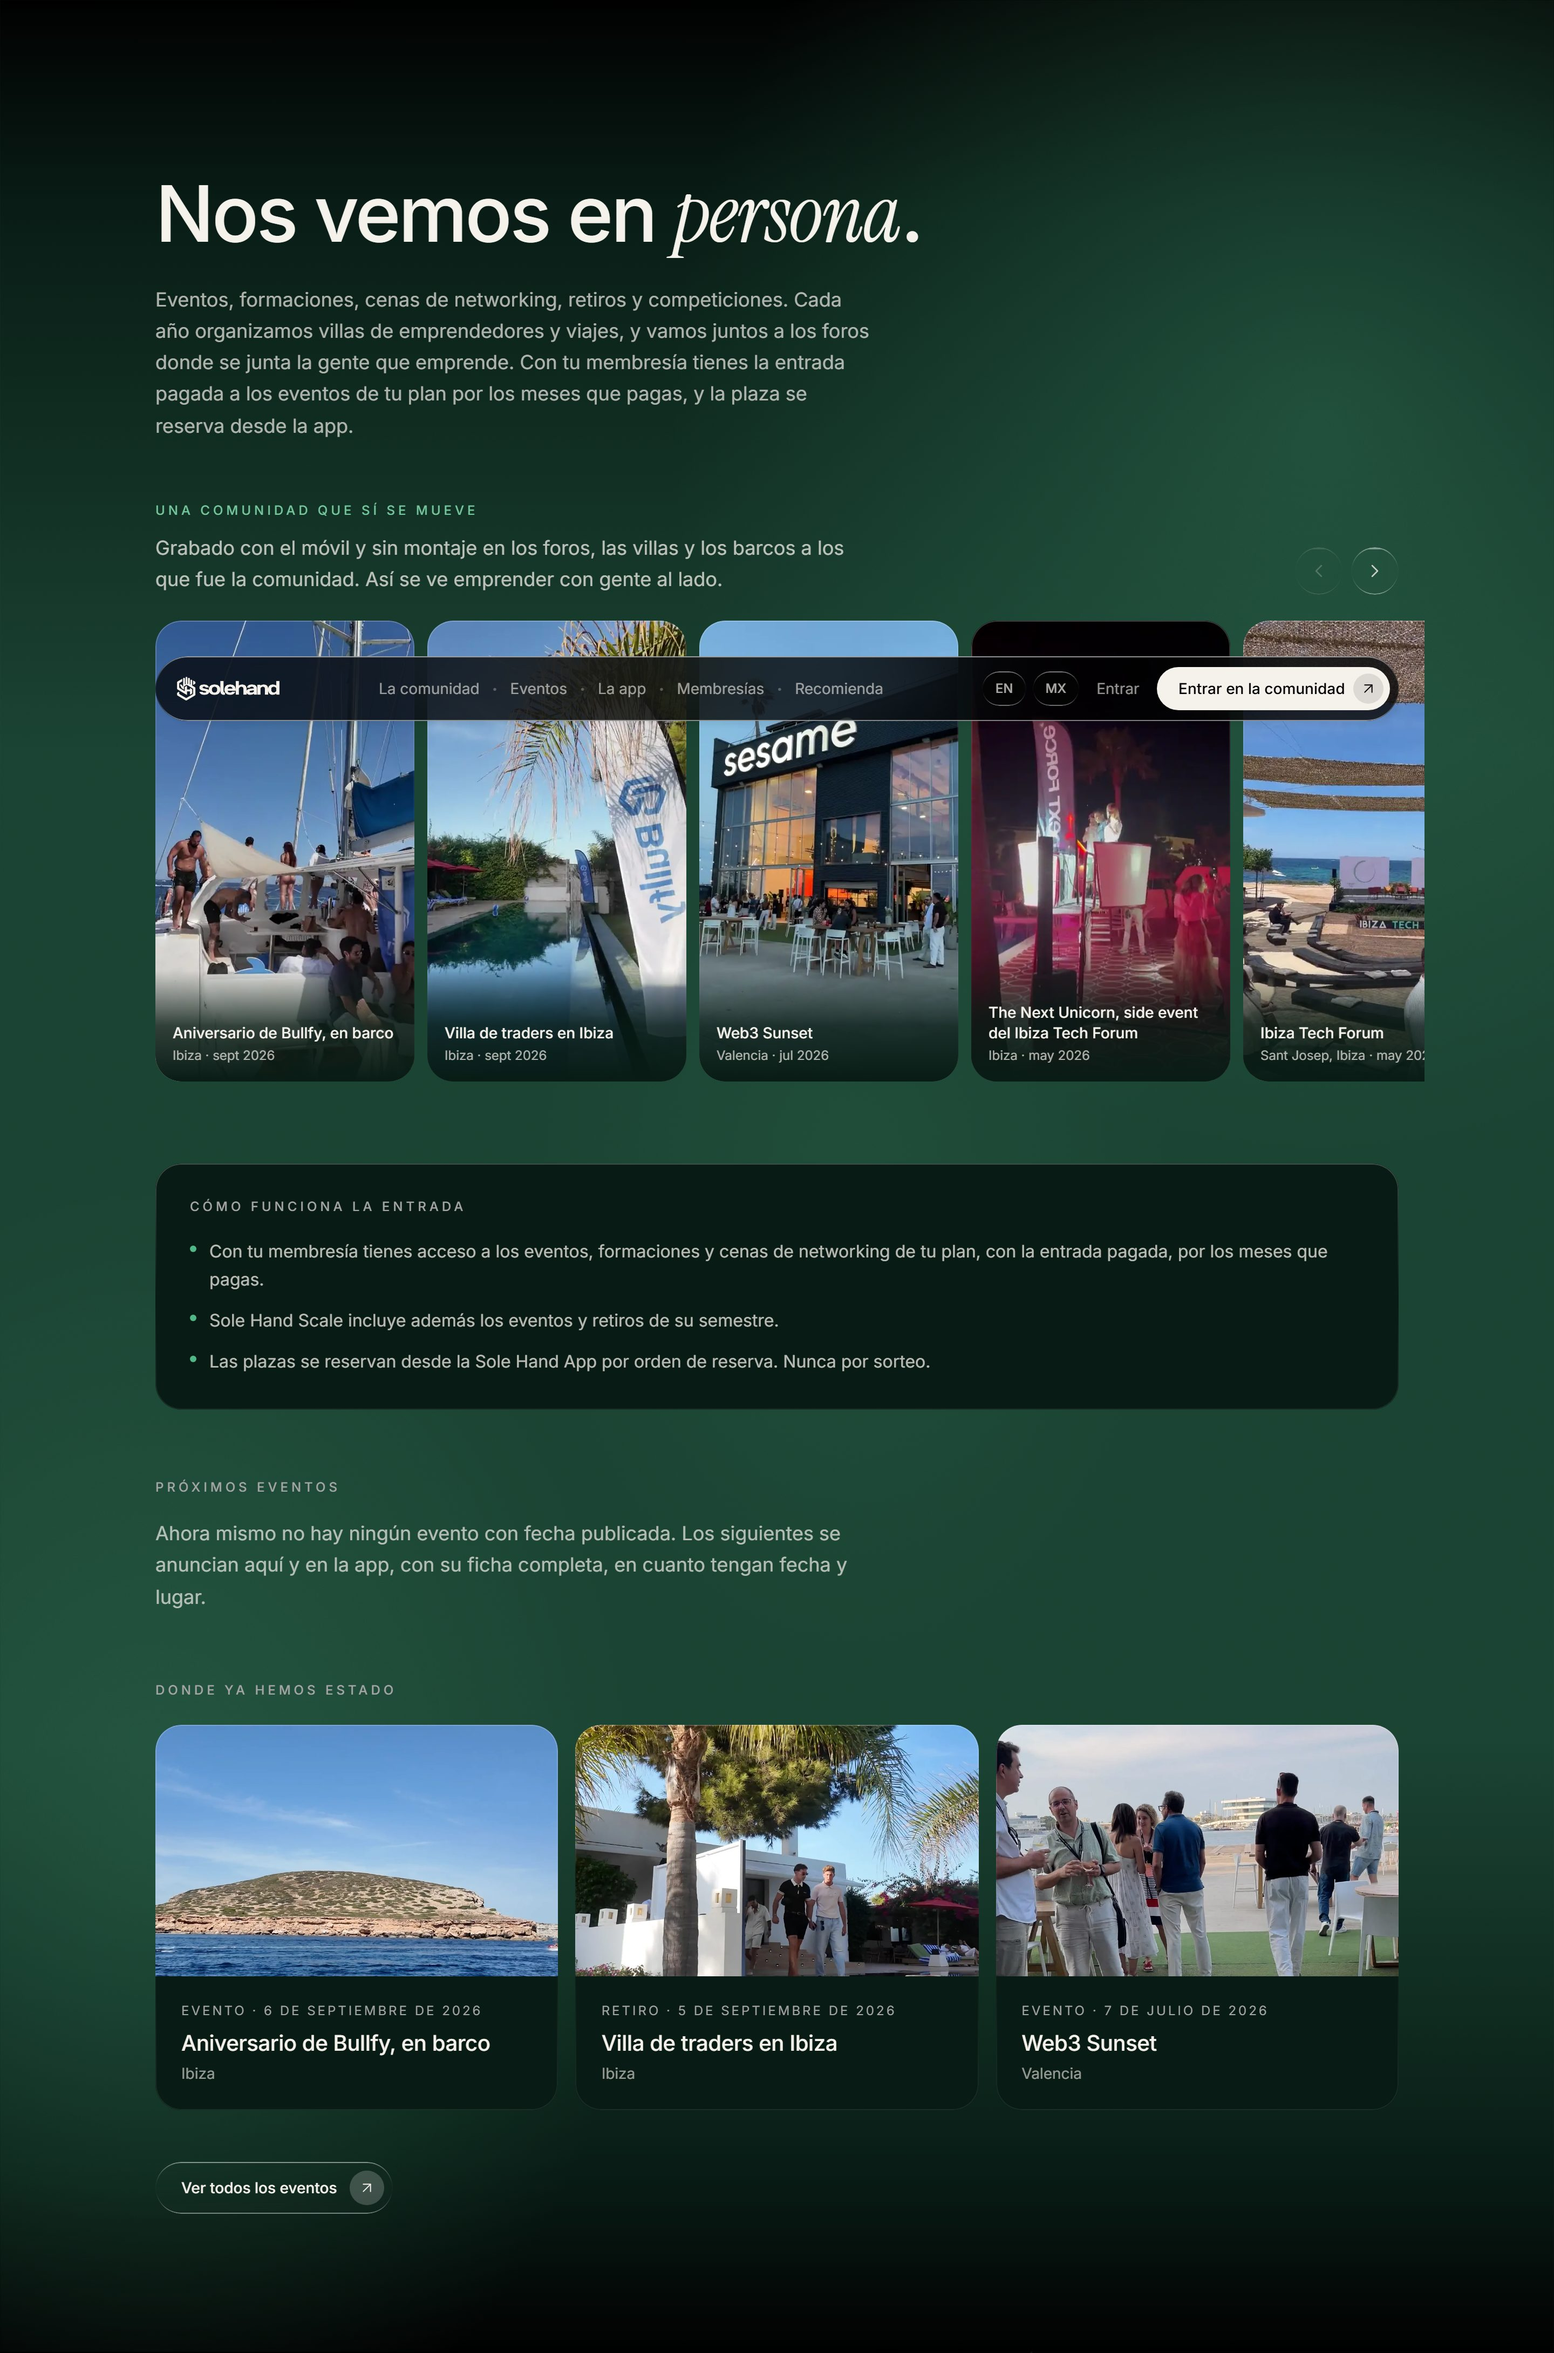
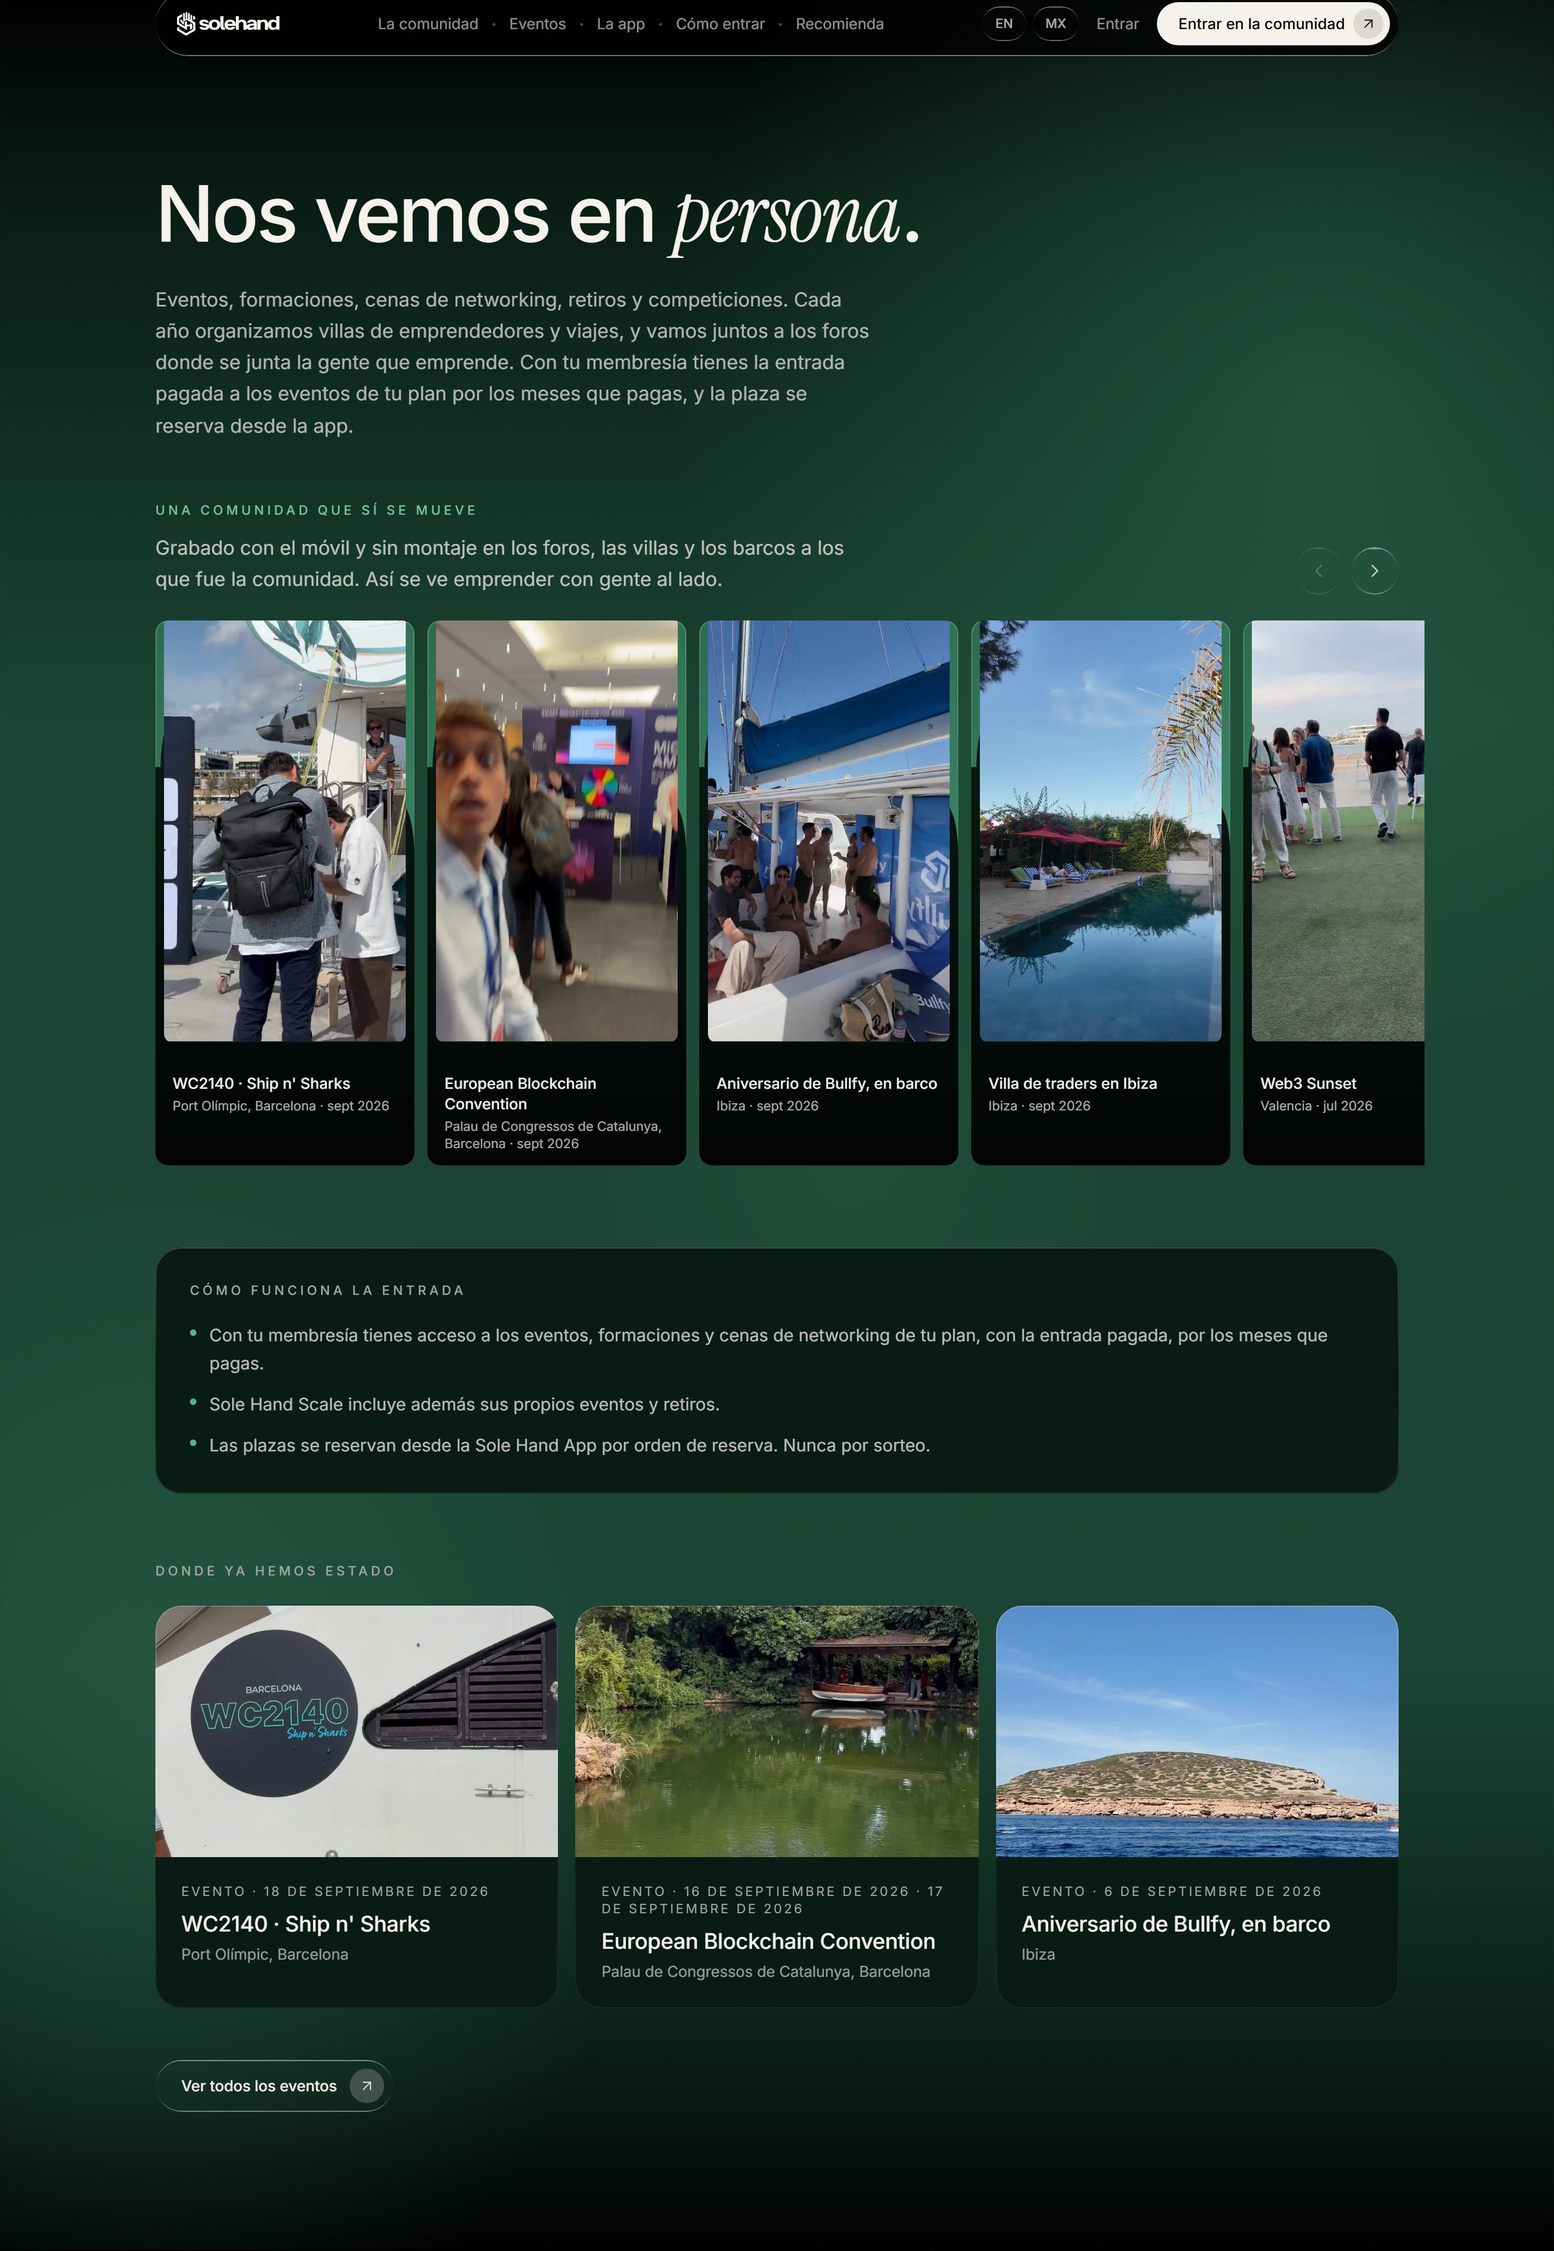
Update the showcase for the two ways in and the new hero
- README: Kick-off and Sole Hand Scale replace the six-month framing;
  Scale is described for businesses that are already running.
- Build log: entry for 16 October.
- Screenshots retaken against the current site: new hero on desktop
  and mobile, community section, Scale page and brand kit v2.

diff --git a/README.md b/README.md
@@ -1,5 +1,5 @@
 <p align="center">
-  <img src="docs/brand/banner.webp" alt="Sole Hand. No one builds alone: a community of entrepreneurs that meets in person, with the Sole Hand App and a six-month programme" width="100%">
+  <img src="docs/brand/banner.webp" alt="Sole Hand. No one builds alone: a community of entrepreneurs that meets in person, with the Sole Hand App and the Sole Hand Scale programme" width="100%">
 </p>
 
 <p align="center">
@@ -31,7 +31,7 @@
 
 Sole Hand is a community of entrepreneurs: people who already run a business and people who want to start one. We find what is holding each business back and solve it, with the tools needed to build well, fast and profitably. We meet in person, and whoever recommends the community gets paid for it.
 
-Around the community there is a public website in three locales; the Sole Hand App, where members book their seat at the events, manage their account and group, and where people who recommend have their own portal; Sole Hand Scale, a six-month programme for people starting out in which AI tools are built for each business; and an in-house pipeline for the social content.
+Around the community there is a public website in three locales; the Sole Hand App, where members book their seat at the events, manage their account and group, and where people who recommend have their own portal; two ways in, Kick-off, a one-off entry for people starting out, and Sole Hand Scale, the programme for businesses that are already running and want to scale, in which AI tools are built for each business; and an in-house pipeline for the social content.
 
 I designed and built all of it from scratch as a full-stack developer: the website and the app, the self-hosted backend and its data model, the payments, the security hardening, the lead service, the deployment and the image and video pipeline, and now the service behind the AI agents. The website and the app have been live since August 2026, and membership sales opened on 29 September, once the first five phases of the security programme below were in production.
 
@@ -61,7 +61,7 @@ _Last updated 8 Oct 2026 · solehand.com live since 17 Aug 2026._
 | Accounts and sign-up | Live | Open sign-up as a member or as someone who recommends, confirmed through the inbox. An account left half done gets up to three reminders (after a day, three days and a week) with a button to the exact screen, and they stop as soon as it is complete. |
 | Member directory | Live | People and businesses of the community, with visibility decided by the database. Anyone without a business, such as someone who joined to recommend, can create one from the app. |
 | Events and seat booking | Live | Event cards and first-come seat booking from the Sole Hand App. When the ticket is sold elsewhere, the event page sells it in place through the ticketing platform, and a paid ticket is never booked as a free seat. |
-| Sole Hand Scale area | Live | Programme panel and sessions for people in the six-month programme. The monthly one-to-one is booked in an embedded calendar and lands in the app already confirmed, with its time, the meeting link, a notification and add-to-calendar. |
+| Sole Hand Scale area | Live | Programme panel and sessions for people in Sole Hand Scale. The monthly one-to-one is booked in an embedded calendar and lands in the app already confirmed, with its time, the meeting link, a notification and add-to-calendar. |
 | Recommend-and-earn portal | Live | Link, QR code, materials, referrals and commissions. Asking to join takes one tap and the team approves with default terms in one click. Four tax profiles, and payouts through Stripe Connect or by bank transfer, with the IBAN encrypted. |
 | Notifications | Live | In-app notices and push notifications to the phone, written from the Web Push standards with no push vendor in between, sent from a per-device queue in Postgres. |
 | Admin panel | Live | Members, businesses, events, sign-ups, payouts, the audit trail and GDPR erasure. |
@@ -81,7 +81,7 @@ The card and the tables in this README come from [`roadmap.json`](roadmap.json).
 | The community | People who have run a business for years and people building their first one, in the same place. The conversation lives in WhatsApp groups by sector, and meetups are included in every membership. |
 | Events | Events, workshops, networking dinners and retreats. Each one is published from a single typed content file, so a card without its date, its place or the memberships that include it does not compile. Seats are booked from the app, first come, first served. |
 | Sole Hand App | The community on the phone: the seat at each event, the account and the group, and the portal for people who recommend. An installable web app. |
-| Sole Hand Scale | The six-month programme for people starting out: a small group, a weekly group session, a monthly mastermind and one-to-one, and the events of the semester. AI tools are built here for each business: problem first, tool second. |
+| Sole Hand Scale | The programme for businesses that are already running and want to scale: a small group, a weekly group session, a monthly mastermind and one-to-one, and the programme's own events and retreats. AI tools are built here for each business: problem first, tool second. People starting out enter through Kick-off, a one-off entry with a meeting, their website and a month of community. |
 | Recommend and earn | Recommending is free, needs no membership and pays only on memberships that are paid for and used. The rules are written down and visible. |
 | Website | Spanish, English and a Mexican variant, each with its own URL, metadata and structured data generated at build time, fully prerendered for crawlers that do not run JavaScript. |
 | Admin | Members, businesses, events, sign-ups, payouts, the audit trail and GDPR erasure, behind the same database rules as everything else. |
@@ -94,7 +94,7 @@ Taken from the live website, which is Spanish first.
 
 <table>
   <tr>
-    <td width="50%" valign="top"><img src="media/web-hero.jpg" alt="Home page"><br><sub><b>Home.</b> The community first: in-person meetings, tools shaped to each business and clear conditions.</sub></td>
+    <td width="50%" valign="top"><img src="media/web-hero.jpg" alt="Home page"><br><sub><b>Home.</b> The community first: in-person meetings, tools shaped to each business and clear conditions, over a hero that loops a five-second clip and zooms away as you scroll.</sub></td>
     <td width="50%" valign="top"><img src="media/web-en.jpg" alt="English home page"><br><sub><b>English.</b> Every locale has its own URL, metadata and structured data, generated at build time.</sub></td>
   </tr>
   <tr>
@@ -107,7 +107,7 @@ Taken from the live website, which is Spanish first.
   </tr>
   <tr>
     <td width="50%" valign="top"><img src="media/web-eventos-pagina.jpg" alt="The events page"><br><sub><b>The events page.</b> Every event is published with the same card here and in the app.</sub></td>
-    <td width="50%" valign="top"><img src="media/web-scale.jpg" alt="The Sole Hand Scale page"><br><sub><b>Sole Hand Scale.</b> Six months with a start and an end date, a small group and people alongside.</sub></td>
+    <td width="50%" valign="top"><img src="media/web-scale.jpg" alt="The Sole Hand Scale page"><br><sub><b>Sole Hand Scale.</b> For businesses that are already running and want to scale: a small group and people alongside.</sub></td>
   </tr>
   <tr>
     <td width="50%" valign="top"><img src="media/web-afiliados.jpg" alt="The recommend-and-earn page"><br><sub><b>Recommend and earn.</b> Free to join, and paid only on memberships that are paid for and used.</sub></td>

diff --git a/docs/build-log.md b/docs/build-log.md
@@ -4,6 +4,8 @@ The project's milestones, with their dates. Updated as the build moves. The summ
 
 ## October 2026
 
+**16 October.** The offer is cut down to two ways in. The pricing section goes from four cards to two, Kick-off and Sole Hand Scale, and from four hundred words to a hundred and thirty: no tax or payment small print on the cards, one final price each, and every generic button on the site now lands on those two prices instead of the app's sign-up, which used to open the Member tier by default. Scale is repositioned for businesses that are already running and want to scale; people starting out enter through Kick-off, a one-off entry with a meeting, their website and a month of community. In the app, the Member tier is closed to new sign-ups with a single switch in the price catalogue and a guard that fails the build if it ever comes back; the sign-up screen loses its plan selector, and the affiliate link from the website finally creates an affiliate request instead of a member account. The home page gets a new hero: a hyperreal still of a mountain house at first light with the brand's shield mown into the lawn, produced from a written visual bible with the reference images attached and reviewed frame by frame, plus a five-second seamless loop on desktop and a scroll effect that zooms and parallaxes the background while the message fades. Everything shipped the same night; the website's deploy hook had stopped firing, so both deployments were triggered through the hosting API and verified in production.
+
 **8 October.** The second batch goes to production in one morning: four new keys generated in the encrypted secrets manager and wired into the functions, a single service recreated while everything else kept running, and every function compared byte for byte with the repository afterwards. The rest of the day goes into the gaps that only show when you use the product yourself. An account left half done now gets an email after a day, three days and a week, never more than three, with a button that lands on the exact screen even if it has to sign in first; the reminders are counted in the audit trail, so they needed no new table, and a send that fails reaches the team. Anyone without a business can create one from the app. Paid events stop pretending: a ticket sold elsewhere is no longer booked as a free seat, and the event page sells it in place through the ticketing platform's checkout, embedded as a frame with none of its scripts inside the app. The monthly one-to-one booked in the embedded calendar arrives in the app already confirmed, with its time, the meeting link, a notification on the phone and add-to-calendar. The calendar was measured in a real browser (six and a half seconds cold, three warm) and now starts loading before anyone opens it. Events get their cover image from the admin panel, and the reminder email is redrawn after reading it on a phone.
 
 **7 October.** Two lines of work side by side. The agent service is written: Node 24 and TypeScript with Hono, grammY and pg-boss, Telegram linked through a one-time code, a webhook that checks its secret in constant time, downloads guarded against SSRF, and twelve findings from an adversarial review, each one closed with a test of its own. On the platform, signing up from a phone like any new member surfaces a list of small frictions, and a first batch of fixes reaches production that evening: the password screen with the brand's own door, light theme by default, an install prompt and an account header you can edit in place. A second batch is built and tested end to end on staging with a real account: asking to recommend in one tap and approval in one click, four tax profiles with payouts by bank transfer and the IBAN encrypted, push notifications written from the Web Push RFCs and checked against their test vector, and the community's group link served only to members with an active membership.
